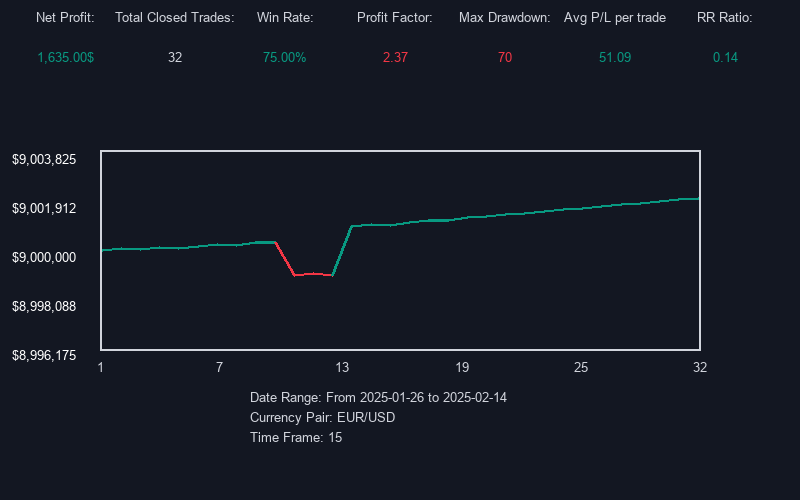
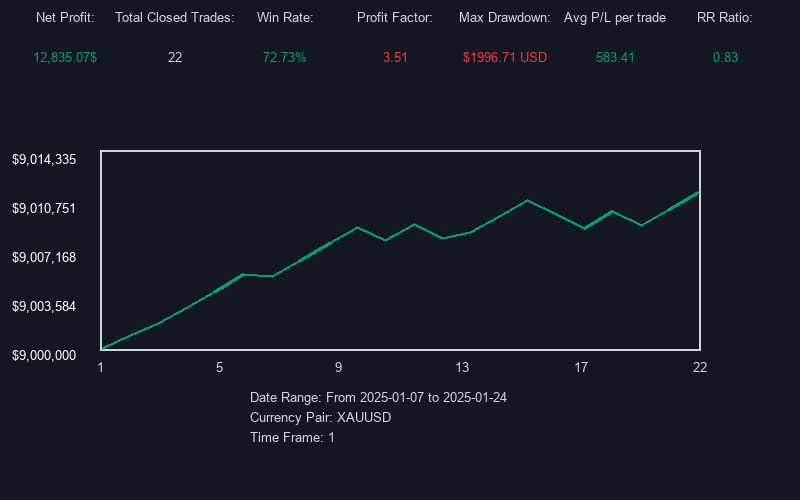
Initial commit

diff --git a/main.py b/main.py
@@ -1,6 +1,6 @@
 from telegram import Update, InlineKeyboardButton, InlineKeyboardMarkup
 from telegram.ext import ApplicationBuilder, CommandHandler, MessageHandler, ContextTypes, filters,CallbackQueryHandler
-from flask import Flask, request
+from flask import Flask, request, jsonify
 from threading import Thread
 import pandas as pd
 import json
@@ -9,10 +9,10 @@ import os
 from PIL import ImageDraw, ImageFont
 
 
+
+
 # Flask setup
 app = Flask(__name__)
-
-
 
 
 Total_request = 0
@@ -65,13 +65,41 @@ def calculate_net_profit(trade_profit):
         return f"Error processing the CSV file: {e}"
 
 
+def calculate_max_drawdown_usd(df, initial_capital):
+    """
+    Calculate the Maximum Drawdown (MDD) in USD.
+
+    Parameters:
+    - df (pd.DataFrame): DataFrame containing trades or portfolio data with 'Profit' column.
+    - initial_capital (float): Starting capital.
+
+    Returns:
+    - max_drawdown_usd (float): Maximum drawdown in USD.
+    - modified_df (pd.DataFrame): DataFrame with added equity curve and drawdown columns.
+    """
+    # Create equity curve from cumulative profits
+    df['Equity'] = initial_capital + df['Profit'].cumsum()
+
+    # Calculate the running maximum of the equity curve
+    df['Peak_Equity'] = df['Equity'].cummax()
+
+    # Calculate drawdown in USD at each point
+    df['Drawdown_USD'] = df['Equity'] - df['Peak_Equity']
+
+    # Maximum Drawdown in USD
+    max_drawdown_usd = df['Drawdown_USD'].min()  # Minimum value will be the largest drawdown in negative
+
+    return f"${-max_drawdown_usd:.2f} USD"
+
 Main_Capital = 9000000
+
+
 
 def generate_dashboard():
     # Read the CSV file
     csv_file = 'data.csv'
     df = pd.read_csv(csv_file)
-    
+
     def parse_dates(date_series):
         formats = ["%m/%d/%y %H:%M", "%Y-%m-%d %H:%M:%S"]  # List of formats to try
         for fmt in formats:
@@ -79,27 +107,41 @@ def generate_dashboard():
                 return pd.to_datetime(date_series, format=fmt, errors='coerce')
             except ValueError:
                 continue
-        # If all formats fail, fall back to auto-parsing
         return pd.to_datetime(date_series, errors='coerce')
 
     df['Date/Time'] = parse_dates(df['Date/Time'])
-
-
-
     df['Profit'] = pd.to_numeric(df['Profit'], errors='coerce')
 
     # Calculate cumulative capital growth
-    initial_capital = 9000000
-    df['Capital'] = initial_capital + df['Profit'].cumsum()
-
-    # Count total trades (total number of rows in the DataFrame)
+    df['Capital'] = Main_Capital + df['Profit'].cumsum()
+    # Count total trades
     total_trades = len(df)
-    
+     
     # Count winning and losing trades
     win_trades = df[df['Profit'] > 0].shape[0]
     loss_trades = df[df['Profit'] <= 0].shape[0]
     profit_percent = (win_trades / total_trades) * 100
-    max_drawdown = df['Drawdown'].max()
+    # Initialize for max drawdown calculations
+    max_equity_before_trade = Main_Capital  # Start with the initial capital
+    peak_equity = Main_Capital  # Peak equity at any point in time
+    drawdowns = []  # Store drawdown calculations for each trade
+
+    # Track Max Drawdown for each trade position
+    for i, row in df.iterrows():
+        # Keep track of the highest equity before each trade
+        peak_equity = max(peak_equity, df.loc[:i, 'Capital'].max())
+
+        # Calculate the drawdown for the open trade
+        drawdown = peak_equity - row['Capital']
+        drawdowns.append(drawdown)
+
+    # Add the drawdowns column to the dataframe
+    df['Drawdown (USD)'] = drawdowns
+    df['Peak'] = df['Capital'].max()
+
+    
+    # Find the largest (maximum) drawdown in USD
+    max_drawdown = calculate_max_drawdown_usd(df, Main_Capital)
     gross_profit = df[df['Profit'] > 0]['Profit'].sum()
     gross_loss = df[df['Profit'] < 0]['Profit'].sum()
     profit_factor = abs(gross_profit / gross_loss) if gross_loss != 0 else float('inf')
@@ -111,13 +153,16 @@ def generate_dashboard():
     max_profit = df['Profit'][df['Profit'] > 0].max() if not df[df['Profit'] > 0].empty else 0
     total_profit = df[df['Profit'] > 0]['Profit'].sum()
     total_loss = abs(df[df['Profit'] < 0]['Profit'].sum())
-    # New Y-Axis Limits
-    df['Capital'] = initial_capital + df['Profit'].cumsum()
-    y_axis_max = initial_capital + total_profit + 1000
-    y_axis_min = initial_capital - (total_loss + 1000)
-    # Center Y-Axis with Initial Capital
-    y_axis_middle = initial_capital
-    
+
+
+    # Setting y-axis limits
+    if df['Capital'].min() < Main_Capital:
+        y_axis_min = df['Capital'].min() - 500  # Adjust y-axis minimum based on the lowest capital
+    else:
+        y_axis_min = Main_Capital - 500  # Default to Main_Capital - 500 if no significant drop
+
+    y_axis_max = df['Capital'].max() + 1000
+
     # Define chart dimensions and margins
     chart_width, chart_height = 600, 200
     chart_margin = 2
@@ -127,20 +172,19 @@ def generate_dashboard():
     green = (8, 153, 129)
     red = (242, 54, 69)
     background = (19, 23, 34)
-    purple = (128, 0, 128)
-    
+
     # Create an image with the specified background color
     img = Image.new(mode='RGB', size=(800, 500), color=background)
     draw = ImageDraw.Draw(img)
-    
+
     # Load font
     font_path = "arial.ttf"  # Use a valid font path on your system
     font = ImageFont.truetype(font_path, size=13)
-    
+
     # Define positions
     x, y = 10, 10
     spacing = 110
-    
+
     # Draw the headers
     headers = ["Net Profit:", "Total Closed Trades:", "Win Rate:", "Profit Factor:", "Max Drawdown:", "Avg P/L per trade", "RR Ratio:"]
     values = [
@@ -167,45 +211,44 @@ def generate_dashboard():
         value_width = value_bbox[2] - value_bbox[0]
         value_x = x + i * spacing + (spacing - value_width) / 2
         draw.text((value_x, y + 40), str(values[i]), fill=colors[i], font=font)
-    
+
     # Calculate the center position for the chart
     chart_x = (img.width - chart_width) // 2
     chart_y = (img.height - chart_height) // 2
+
     # Normalize capital for chart
-    min_capital = df['Capital'].min()
-    max_capital = df['Capital'].max()
-    initial_capital = df['Capital'].iloc[0]  # Initial Capital
-    normalized_capital = (df['Capital'] - initial_capital) / (y_axis_max - y_axis_min) * (chart_height - 2 * chart_margin)
+    normalized_capital = (df['Capital'] - Main_Capital) / (y_axis_max - y_axis_min) * (chart_height - 2 * chart_margin)
 
     # Find the Y-coordinate for the initial capital
-    initial_y = chart_y + chart_height / 2  # Middle of the chart
-    normalized_y = initial_y - normalized_capital.iloc[0]  # Adjust based on normalized value
-
-    
-
+    initial_y = chart_y + chart_height - chart_margin  # Bottom of the chart
 
     # Draw rectangle for the chart background
     draw.rectangle([chart_x, chart_y, chart_x + chart_width, chart_y + chart_height], outline=white, width=2)
 
-    # Generate Y-axis labels dynamically
-    # Number of labels to display on the Y-axis (including min, middle, and max)
+    # Generate Y-axis labels
     num_labels = 5  
-    step = (y_axis_max - y_axis_middle) / ((num_labels - 1) / 2)
+    step = (y_axis_max - y_axis_min) / (num_labels - 1)
 
-    # Generate Y-axis labels symmetrically above and below the middle value
-    y_labels = [
-        f"${(y_axis_middle - step * ((num_labels - 1) / 2 - i)):,.0f}" for i in range(num_labels)
-    ]
+    y_labels = []
+    if df['Capital'].min() < Main_Capital:  # When there is a loss below initial capital
+        adjusted_step = (y_axis_max - y_axis_min) / 5
+        y_labels = [
+            f"${y_axis_min + adjusted_step * i:,.0f}" for i in range(5)
+        ]
+    else:
+        y_labels = [
+            f"${(Main_Capital + step * i):,.0f}" for i in range(num_labels)
+        ]
 
     # Position the labels along the Y-axis
     for i, label in enumerate(y_labels):
         # Calculate Y position for each label
-        y = chart_y + chart_height - chart_margin - i * (chart_height - 2 * chart_margin) / (len(y_labels) - 1)
-        draw.text((12, y), label, fill="white", font=font)
+        y_position = chart_y + chart_height - chart_margin - i * (chart_height - 2 * chart_margin) / (len(y_labels) - 1)
+        draw.text((12, y_position), label, fill="white", font=font)
 
     # Draw the X-axis
     if total_trades > 6:
-        # Create evenly spaced labels, ensuring the first and last align perfectly
+        # Create evenly spaced labels
         gap = (chart_width - 2 * chart_margin) / 5
         x_positions = [chart_x + chart_margin + i * gap for i in range(6)]
         x_values = [1] + [(total_trades - 1) // 5 * i + 1 for i in range(1, 5)] + [total_trades]
@@ -217,28 +260,37 @@ def generate_dashboard():
             x_position = chart_x + chart_margin + i * (chart_width - 2 * chart_margin) / (total_trades - 1)
             draw.text((x_position - 12, chart_y + chart_height + 10), str(i + 1), fill=white, font=font)
 
-    for i in range(1, total_trades):
-        # Calculate X1, Y1 (previous point)
-        x1 = chart_x + chart_margin + (i - 1) * (chart_width - 2 * chart_margin) / (total_trades - 1)
-        y1 = initial_y - normalized_capital.iloc[i - 1]
+    initial_y = chart_y + chart_height - chart_margin - ((Main_Capital - y_axis_min) / (y_axis_max - y_axis_min) * (chart_height - 2 * chart_margin))
 
-        # Calculate X2, Y2 (current point)
-        x2 = chart_x + chart_margin + i * (chart_width - 2 * chart_margin) / (total_trades - 1)
-        y2 = initial_y - normalized_capital.iloc[i]
+    # Draw the lines for capital according to the normalized values
+    for i in range(total_trades):
+        # Calculate the X position for each trade
+        x = chart_x + chart_margin + i * (chart_width - 2 * chart_margin) / (total_trades - 1)
+
+        # Calculate the Y position for the current capital value
+        y = chart_y + chart_height - chart_margin - ((df['Capital'].iloc[i] - y_axis_min) / (y_axis_max - y_axis_min) * (chart_height - 2 * chart_margin)) + 27
 
         # Ensure Y-coordinates stay within the chart area
-        y1 = min(max(y1, chart_y + chart_margin), chart_y + chart_height - chart_margin)
-        y2 = min(max(y2, chart_y + chart_margin), chart_y + chart_height - chart_margin)
+        y = min(max(y, chart_y + chart_margin), chart_y + chart_height - chart_margin)
+
         # Line color (based on profit/loss)
         if df['Capital'].iloc[i] < Main_Capital:
-            
-            line_color = red  # Color the line red if the capital is less than Main_Capital (loss)
+            line_color = red  # Loss
         elif df['Capital'].iloc[i] > Main_Capital:
-            line_color = green  # Color the line green if the capital is greater than Main_Capital (profit)
+            line_color = green  # Profit
         else:
-            line_color = white  # This line is optional for when the capital equals Main_Capital
+            line_color = white  # No change
 
-        draw.line([(x1, y1), (x2, y2)], fill=line_color, width=3)
+        # Drawing the line starting from the initial_y position for the first point
+        if i > 0:
+            # Connect the previous point to the current point with a line
+            draw.line([(previous_x, previous_y), (x, y)], fill=line_color, width=3)
+
+        # Save the current position for the next iteration
+        previous_x, previous_y = x, y
+
+
+
     # Add additional information below the chart
     date_range = f"Date Range: From {df['Date/Time'].min().date()} to {df['Date/Time'].max().date()}"
     currency_pair = ', '.join(df['Pair'].unique())
@@ -367,7 +419,7 @@ async def get_csv(update: Update, context: ContextTypes.DEFAULT_TYPE):
 async def start(update: Update, context: ContextTypes.DEFAULT_TYPE):
     user_id = update.effective_user.id
     print(user_id)
-    await update.message.reply_text("Welcome to NRT-Forex Management Bot")
+    await update.message.reply_text("Welcome to NRT Forex Performance Dashboard BOT")
     keyboard = [
             [InlineKeyboardButton("Get DashBoard", callback_data='dashboard'),
             InlineKeyboardButton("Get Perfomance CSV", callback_data='csv_perform')],
@@ -404,7 +456,7 @@ async def button_handler(update: Update, context: ContextTypes.DEFAULT_TYPE):
         if Total_request >= 20000:
             await query.edit_message_text(f"NGROK limit of 20000 got exceeds.Please re-run the server.")
         else:
-            await query.edit_message_text(f"Currently Limit Used is:-{Total_request}")
+            await query.edit_message_text(f"Currently Limit Used is:-{Total_request}/20000")
 
 
 
@@ -462,7 +514,9 @@ def webhook():
     if json_data:
         # Extract the necessary data from the JSON payload
         trade_data = {
-            "Type": json_data.get("Signal", ""),
+            "Pair": json_data.get("Pair", ""),  # Get Pair
+            "Timeframe": json_data.get("TimeFrame", ""),  # Get Timeframe
+            "Type": json_data.get("Type", ""),
             "Signal": json_data.get("Signal", ""),
             "Date/Time": json_data.get("Date/time", ""),
             "Price USD": json_data.get("Price USD", ""),
@@ -475,8 +529,6 @@ def webhook():
             "Drawdown %": json_data.get("Drawdown %", ""),
             "Risk": json_data.get("Risk", ""),
             "Reward": json_data.get("Reward", ""),
-            "Pair": json_data.get("Pair", ""),  # Get Pair
-            "Timeframe": json_data.get("Timeframe", ""),  # Get Timeframe
             "Comment": json_data.get("Comment", "")  # Get Comment
         }
 
@@ -488,7 +540,7 @@ def webhook():
         df = pd.read_csv(CSV_FILE)
         
         # Append the new trade data to the DataFrame using pd.concat
-        trade_data["Trade No"] = len(df) + 1  # Increment trade number for each new trade
+        trade_data["Trade #"] = len(df) + 1  # Increment trade number for each new trade
         new_trade_df = pd.DataFrame([trade_data])
         df = pd.concat([df, new_trade_df], ignore_index=True)
         

diff --git a/client.py b/client.py
@@ -1,0 +1,41 @@
+import requests
+import json
+from datetime import datetime
+
+# The URL of your webhook
+server_url = 'http://127.0.0.1:5000/webhook'
+pair = "EURUSD"
+signalType = "Buy"
+entryPrice = 1.2350
+takeProfit = 1.2380
+stopLoss = 1.2300
+lossComment = "Take profit reached"
+# Call handleTradeClosure function to generate the message
+message = {
+    "Pair": pair,
+    "Type": "Entry Long",
+    "Signal": signalType,
+    "Date/time": "2025-01-26 10:15:00",
+    "Price USD": entryPrice,
+    "Contracts": 10,
+    "Profit": 50,
+    "Profit %": 0.4,
+    "Run-up": 0.0025,
+    "Run-up %": 0.2,
+    "Drawdown": 0.0015,
+    "Drawdown %": 0.1,
+    "Risk": 0.0010,
+    "Reward": 0.0020,
+    "TimeFrame": "1",
+    "Comment": lossComment
+}
+
+# Send the request with the data
+try:
+    response = requests.post(server_url, json=message)
+    if response.status_code == 200:
+        print("Message sent successfully!")
+    else:
+        print(f"Failed to send message. Status code: {response.status_code}")
+except Exception as e:
+    print(f"An error occurred: {e}")

diff --git a/check.py b/check.py
@@ -1,0 +1,17 @@
+import requests
+
+# Flask server URL
+url = "http://localhost:5000/Checking"
+
+# Send data to the Flask server (can be empty or include whatever data you want)
+payload = {"data": "example"}  # Example data to send, can be an empty JSON
+
+# POST request to /Checking
+response = requests.post(url, json=payload)
+
+# Print the response from the server
+if response.status_code == 200:
+    response_data = response.json()
+    print(f"Server response: {response_data['message']}")
+else:
+    print(f"Failed to get response. Status code: {response.status_code}")
